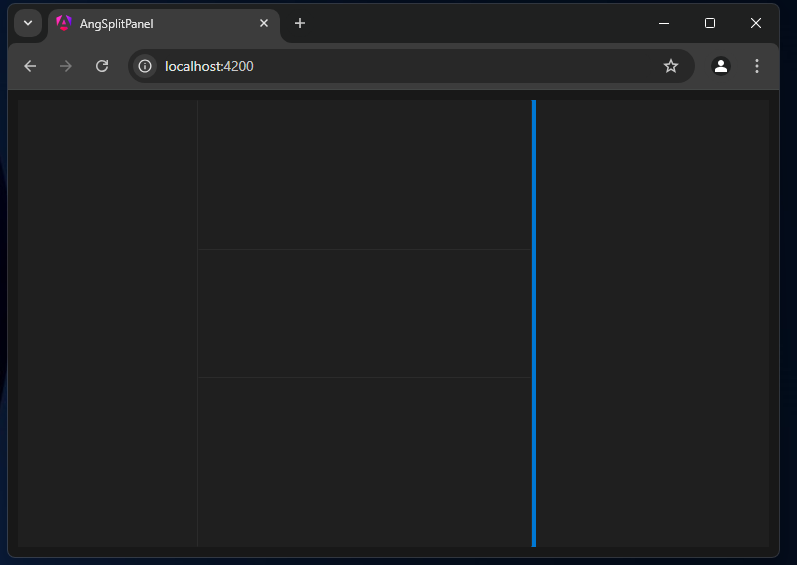
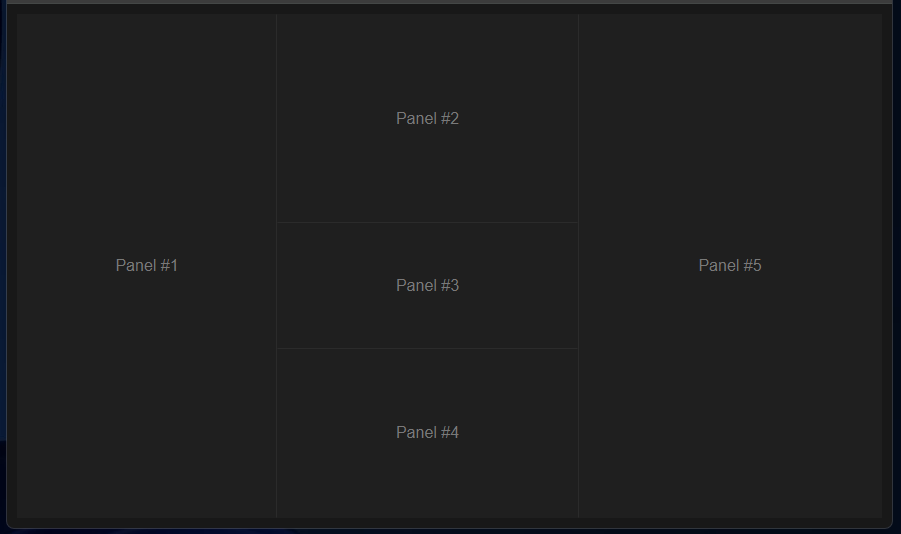
tweak, update readme

diff --git a/src/app/app.component.html b/src/app/app.component.html
@@ -3,27 +3,27 @@
 		<split-container>
 
 			<split-panel [options]="{ size: 200, minSize: 100, canDrag: true }">
-				<div class="panel no1"></div>
+				<div class="panel">Panel #1</div>
 			</split-panel>
 
 			<split-panel [options]="{ ratio: 2, minSize: 200, }">
-				<div class="panel no2">
+				<div class="column">
 					<split-container [options]="{ direction: 'horizontal' }">
 						<split-panel [options]="{ size: 200, minSize: 100, canDrag: true }">
-							<div class="panel no4"></div>
+							<div class="panel">Panel #2</div>
 						</split-panel>
 						<split-panel [options]="{ ratio: 1, minSize: 50}">
-							<div class="panel no5"></div>
+							<div class="panel">Panel #3</div>
 						</split-panel>
 						<split-panel [options]="{ size: 200, canDrag: true }">
-							<div class="panel no4"></div>
+							<div class="panel">Panel #4</div>
 						</split-panel>
 					</split-container>
 				</div>
 			</split-panel>
 
 			<split-panel [options]="{ size: 200, canDrag: true }">
-				<div class="panel no3"></div>
+				<div class="panel">Panel #5</div>
 			</split-panel>
 
 		</split-container>

diff --git a/src/app/app.component.scss b/src/app/app.component.scss
@@ -12,25 +12,17 @@
     width: 100%;
     height: 100%;
     background-color: $panel-background;
+    color: #797979;
+    font-family: sans-serif;
+    .column  {
+        width: 100%;
+        height: 100%;
+    }
     .panel {
         width: 100%;
         height: 100%;
-        // padding: 5px;
+        display: flex;
+        justify-content: center;
+        align-items: center;
     }
-    .no1 {
-        // background-color: green;
-    }
-    .no2 {
-        // background-color: rgb(26, 31, 16);
-    }
-    .no3 {
-        // background-color: darkblue;
-    }
-    .no4 {
-        // background-color: rgb(165, 155, 15);
-    }
-    .no5 {
-        // background-color: rgb(54, 54, 136);
-    }
-
 }

diff --git a/README.md b/README.md
@@ -5,28 +5,28 @@ Example of panel split. Work in progress
 ```html
 <split-container>
 
-	<split-panel [options]="{ type: 'fixed', size: 200, minSize: 100, canDrag: true }">
-		<div class="panel no1"></div>
+	<split-panel [options]="{ size: 200, minSize: 100, canDrag: true }">
+		<div class="panel">Panel #1</div>
 	</split-panel>
 
-	<split-panel [options]="{ type: 'dynamic', ratio: 2, minSize: 200, }">
-		<div class="panel no2">
+	<split-panel [options]="{ ratio: 2, minSize: 200, }">
+		<div class="column">
 			<split-container [options]="{ direction: 'horizontal' }">
-				<split-panel [options]="{ type: 'fixed', size: 200, minSize: 100, canDrag: true }">
-					<div class="panel no4"></div>
+				<split-panel [options]="{ size: 200, minSize: 100, canDrag: true }">
+					<div class="panel">Panel #2</div>
 				</split-panel>
-				<split-panel [options]="{ type: 'dynamic', minSize: 50}">
-					<div class="panel no5"></div>
+				<split-panel [options]="{ ratio: 1, minSize: 50}">
+					<div class="panel">Panel #3</div>
 				</split-panel>
-				<split-panel [options]="{ type: 'fixed', size: 200, canDrag: true }">
-					<div class="panel no4"></div>
+				<split-panel [options]="{ size: 200, canDrag: true }">
+					<div class="panel">Panel #4</div>
 				</split-panel>
 			</split-container>
 		</div>
 	</split-panel>
 
-	<split-panel [options]="{ type: 'fixed', size: 200, canDrag: true }">
-		<div class="panel no3"></div>
+	<split-panel [options]="{ size: 200, canDrag: true }">
+		<div class="panel">Panel #5</div>
 	</split-panel>
 
 </split-container>
